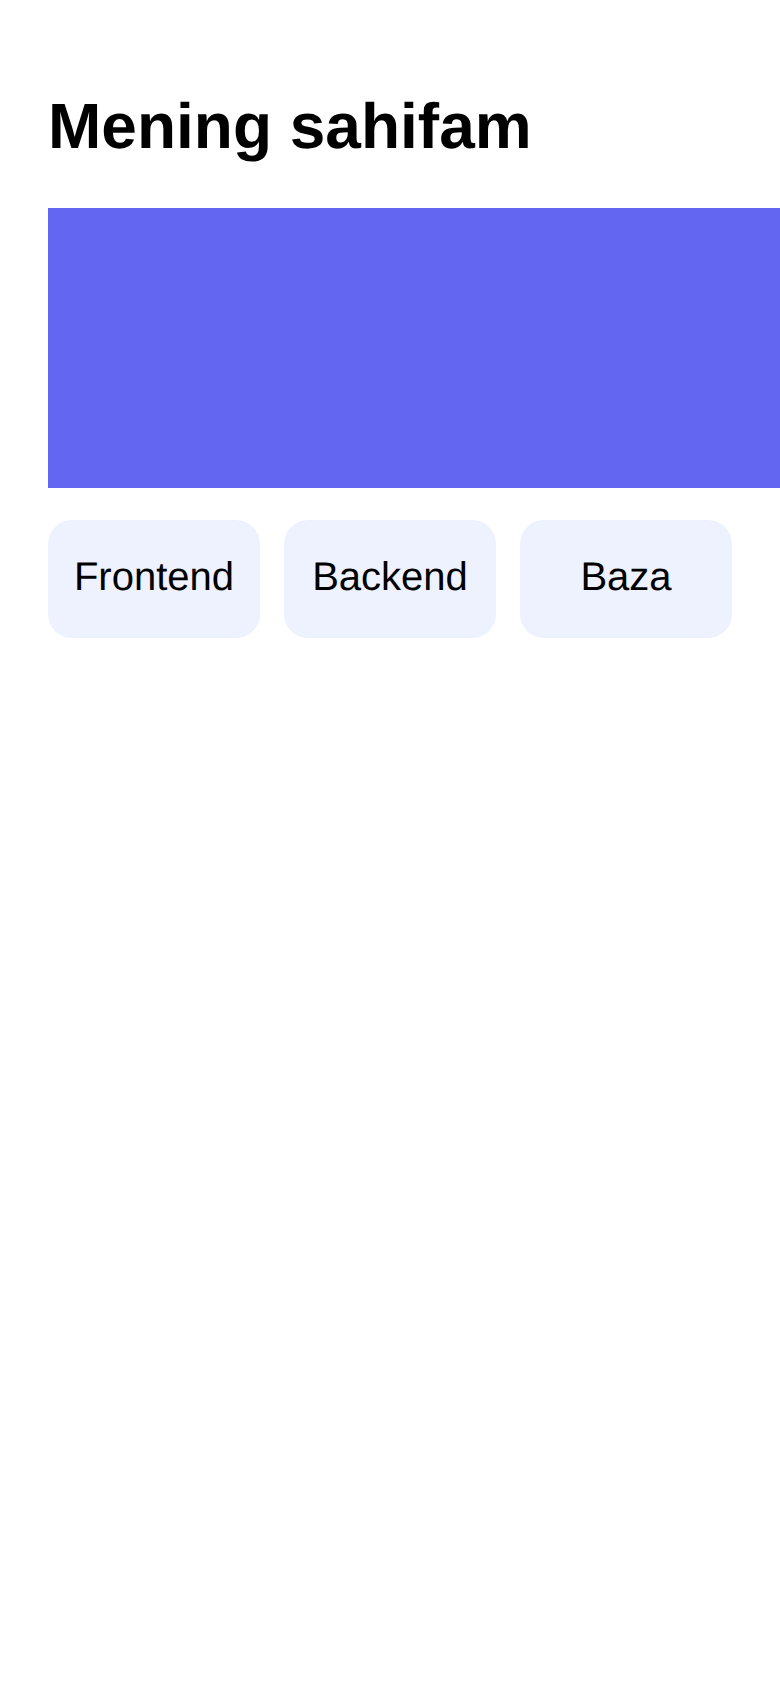
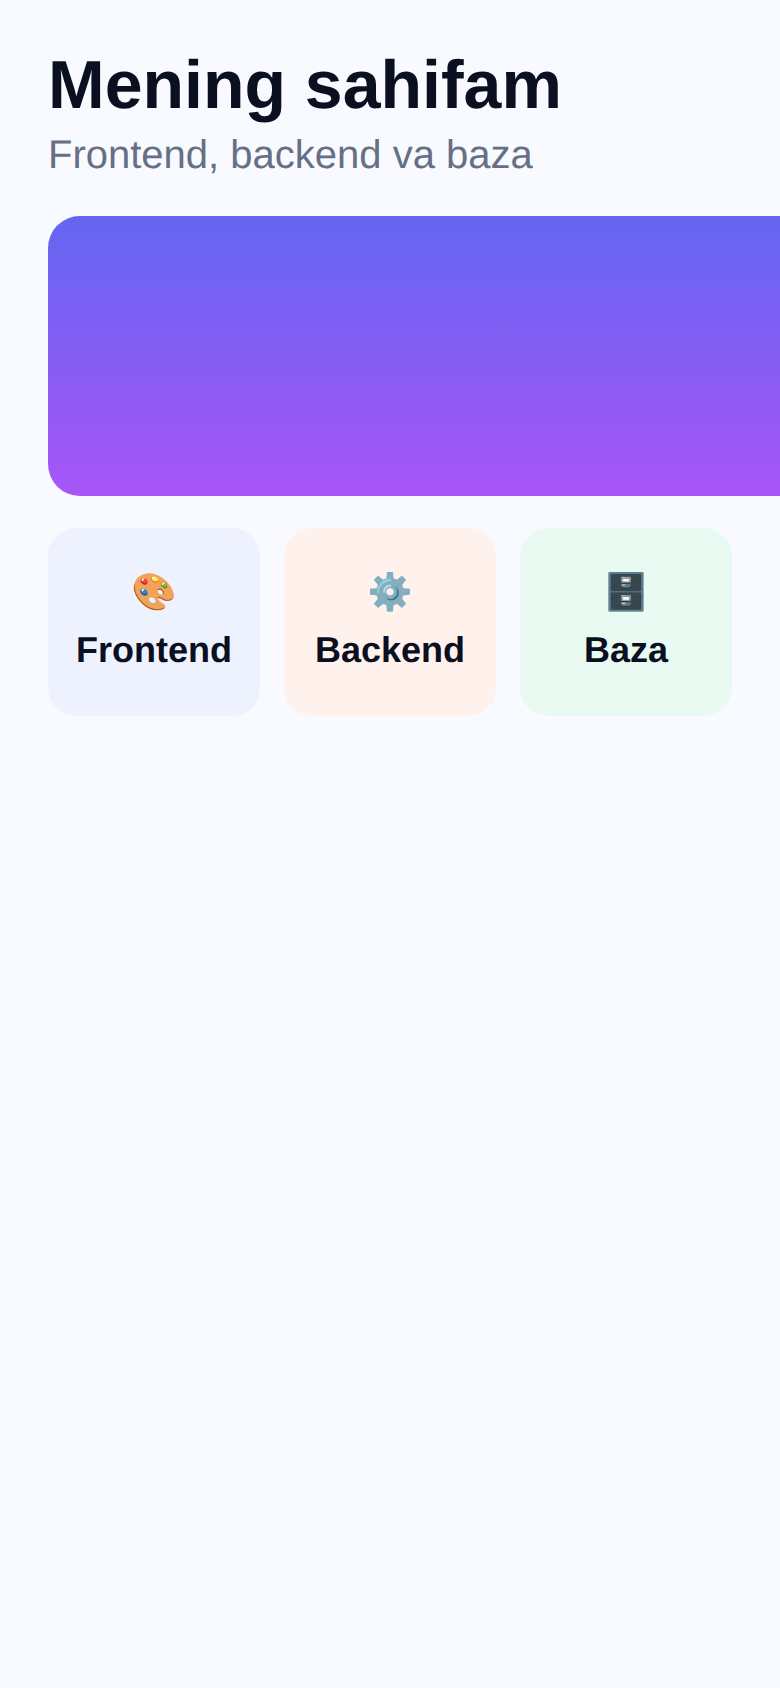
13-video: chiroyli demo sahifa, viewport/width talaffuzi
Claude-Session: https://claude.ai/code/session_01AYS5ZtnbfJDZdSeUckU8Cd

diff --git a/manba/13-css-telefon/_body25.js b/manba/13-css-telefon/_body25.js
@@ -58,7 +58,7 @@ const qP=[ // [oldin rasm, keyin rasm, oldin tag, keyin tag, top, h, chipsTop]
  ['m0.png','m1.png',['Mayda',RED],['Matn normal ✓',GRN],700,740],
  ['m1.png','m2.png',['Rasm kesilgan','#DC6803'],['Rasm sig‘di ✓',GRN],790,650],
  ['m2.png','m3.png',['Kartalar tor','#DC6803'],['Tagma-tag ✓',GRN],700,740]];
-const qPh=qP.map((p,i)=>{const top=i===1?840:740,h=i===1?600:700;return {old:phone(72,top,430,h,p[0],0,p[2][1],p[2][0]),nw:phone(578,top,430,h,p[1],0,p[3][1],p[3][0]),chO:pillTag('OLDIN',RED,72,top-72),chN:pillTag('KEYIN',GRN,578,top-72),arr:el('','<div style="display:flex;justify-content:center">'+ico('arrow-right',64,IND)+'</div>',{left:'495px',top:(top+h/2-32)+'px',width:'90px',zIndex:'30'})}});
+const qPh=qP.map((p,i)=>{const top=i===1?860:740,h=i===1?580:700;return {old:phone(72,top,430,h,p[0],0,p[2][1],p[2][0]),nw:phone(578,top,430,h,p[1],0,p[3][1],p[3][0]),chO:pillTag('OLDIN',RED,72,top-72),chN:pillTag('KEYIN',GRN,578,top-72),arr:el('','<div style="display:flex;justify-content:center">'+ico('arrow-right',64,IND)+'</div>',{left:'495px',top:(top+h/2-32)+'px',width:'90px',zIndex:'30'})}});
 // ---- CTA
 const cL=el('','XULOSA',{left:'72px',top:'140px',fontSize:'30px',fontWeight:800,letterSpacing:'.2em',color:MUT});
 const cT=kl('3 qadam: <span class="grad">tayyor</span>',200,92,'',INK);

diff --git a/manba/13-css-telefon/script25.py b/manba/13-css-telefon/script25.py
@@ -7,17 +7,19 @@ SC=[
  dict(id='cta',parts=["Xulosa: viewport, max-width va media.","Saqlab qo'ying.","Keyingi videoda: tugma bosilganda nima bo'lishini o'rganamiz!"],gaps=[0.2,0.25]) ]
 # Haqiqiy sahifa: videoda ko'rsatiladigan kod va telefonda render qilinadigan kod BIR XIL manba
 VIEW=['  <meta name="viewport"','        content="width=device-width,','        initial-scale=1">']
-PIC_OLD=['    .pic{','      width:600px;','      height:140px;','      background:#6366F1}']
-PIC_NEW=['    .pic{','      width:600px;','      max-width:100%;','      height:140px;','      background:#6366F1}']
+PIC_OLD=['    .pic{','      width:600px;','      height:140px;','      border-radius:16px;','      background:linear-gradient(#6366F1,#A855F7)}']
+PIC_NEW=['    .pic{','      width:600px;','      max-width:100%;','      height:140px;','      border-radius:16px;','      background:linear-gradient(#6366F1,#A855F7)}']
 MEDIA=['    @media (max-width:600px){','      .cards{flex-direction:column}','    }']
 def page(level):
     """level 0: oldin (viewport yo'q); 1: +viewport; 2: +max-width; 3: +@media"""
     L=['<!DOCTYPE html>','<html>','<head>','  <meta charset="UTF-8">']
     if level>=1: L+=VIEW
-    L+=['  <style>','    body{font-family:sans-serif;margin:0;padding:24px}']+(PIC_NEW if level>=2 else PIC_OLD)
+    L+=['  <style>','    body{font-family:sans-serif;margin:0;padding:24px;background:#F8FAFF;color:#0B1020}',
+        '    h1{margin:0 0 4px;font-size:34px}','    p{margin:0 0 18px;color:#667085;font-size:20px}']+(PIC_NEW if level>=2 else PIC_OLD)
     L+=['    .cards{display:flex;gap:12px;margin-top:16px}',
-        '    .card{flex:1;background:#EEF2FF;padding:18px 10px;border-radius:12px;font-size:20px;text-align:center}']
+        '    .card{flex:1;background:#EEF2FF;padding:18px 8px;border-radius:14px;font-size:18px;font-weight:bold;text-align:center;line-height:1.6}',
+        '    .card:nth-child(2){background:#FFF1EC}','    .card:nth-child(3){background:#E8FAF1}']
     if level>=3: L+=MEDIA
-    L+=['  </style>','</head>','<body>','  <h1>Mening sahifam</h1>','  <div class="pic"></div>','  <div class="cards">',
-        '    <div class="card">Frontend</div>','    <div class="card">Backend</div>','    <div class="card">Baza</div>','  </div>','</body></html>']
+    L+=['  </style>','</head>','<body>','  <h1>Mening sahifam</h1>','  <p>Frontend, backend va baza</p>','  <div class="pic"></div>','  <div class="cards">',
+        '    <div class="card">🎨<br>Frontend</div>','    <div class="card">⚙<br>Backend</div>','    <div class="card">🗄<br>Baza</div>','  </div>','</body></html>']
     return "\n".join(L)

diff --git a/manba/13-css-telefon/tts25.py b/manba/13-css-telefon/tts25.py
@@ -2,7 +2,7 @@ import certifi, asyncio, re, subprocess, json
 certifi.where=lambda:'/root/.ccr/ca-bundle.crt'
 import edge_tts
 from script25 import SC
-def fixuz(t): t=t.replace('GitHub','Git xab').replace('commit','kommit').replace('clone','klon').replace('push','pash').replace('token','tokin').replace('Claude','Klod').replace('index.html','indeks nuqta, eych, ti, em, el').replace('HTML','eych, ti, em, el'); return re.sub(r"(?<=[oOgG])['’‘ʼ`´]",'ʻ',t)
+def fixuz(t): t=t.replace('GitHub','Git xab').replace('commit','kommit').replace('clone','klon').replace('push','pash').replace('token','tokin').replace('Claude','Klod').replace('max-width','maks vidt').replace('viewport','viuport').replace('width','vidt').replace('index.html','indeks nuqta, eych, ti, em, el').replace('HTML','eych, ti, em, el'); return re.sub(r"(?<=[oOgG])['’‘ʼ`´]",'ʻ',t)
 CLEAN="silenceremove=start_periods=1:start_threshold=-42dB:start_silence=0.02:stop_periods=-1:stop_duration=0.30:stop_threshold=-42dB:stop_silence=0.18"
 def dur(p):
     r=subprocess.run(['/tmp/ffmpeg','-i',p],capture_output=True,text=True).stderr

diff --git a/CLAUDE.md b/CLAUDE.md
@@ -8,7 +8,7 @@
 - Asosiy til: o'zbek (lotin). Oddiy so'zlar, qisqa gaplar. Jargonni birinchi marta aytganda darhol oddiy so'z bilan izohla.
 - Foydalanuvchiga javob: o'zbek tilida, qisqa va aniq.
 - Ekrandagi matnda `o‘` va `g‘` uchun `‘` (U+2018) ishlat.
-- **Ovozga (TTS) beriladigan matnda** `o'` va `g'` ni `oʻ` va `gʻ` (U+02BB) ga almashtir. Oddiy `'` bilan ovoz "o"/"g" deb o'qiydi (sinab tasdiqlangan). Qo'shimchalardagi apostrof (`Claude'ga`) o'zgarmaydi. **Ovoz imlosi (foydalanuvchi eshitib tasdiqlagan):** ovozga `commit` -> `kommit`, `GitHub` -> `Git xab`, `push` -> `pash`, `clone` -> `klon`, `token` -> `tokin`, `Claude` -> `Klod`, `index.html` -> `indeks nuqta, eych, ti, em, el`, `HTML` -> `eych, ti, em, el` yoz (ekranda asl yozuv). Aks holda TTS "tommit" va "kuchuk" kabi o'qiydi. Yangi inglizcha so'z qo'shsang, avval bir necha imlo variantini yasab foydalanuvchiga eshittir.
+- **Ovozga (TTS) beriladigan matnda** `o'` va `g'` ni `oʻ` va `gʻ` (U+02BB) ga almashtir. Oddiy `'` bilan ovoz "o"/"g" deb o'qiydi (sinab tasdiqlangan). Qo'shimchalardagi apostrof (`Claude'ga`) o'zgarmaydi. **Ovoz imlosi (foydalanuvchi eshitib tasdiqlagan):** ovozga `commit` -> `kommit`, `GitHub` -> `Git xab`, `push` -> `pash`, `clone` -> `klon`, `token` -> `tokin`, `Claude` -> `Klod`, `viewport` -> `viuport`, `width` -> `vidt`, `max-width` -> `maks vidt`, `index.html` -> `indeks nuqta, eych, ti, em, el`, `HTML` -> `eych, ti, em, el` yoz (ekranda asl yozuv). Aks holda TTS "tommit" va "kuchuk" kabi o'qiydi. Yangi inglizcha so'z qo'shsang, avval bir necha imlo variantini yasab foydalanuvchiga eshittir.
 
 ## Video qoidalari
 - Format: 1080x1920, 30 fps, h264 + aac, ovoz -16 LUFS (`loudnorm`).
